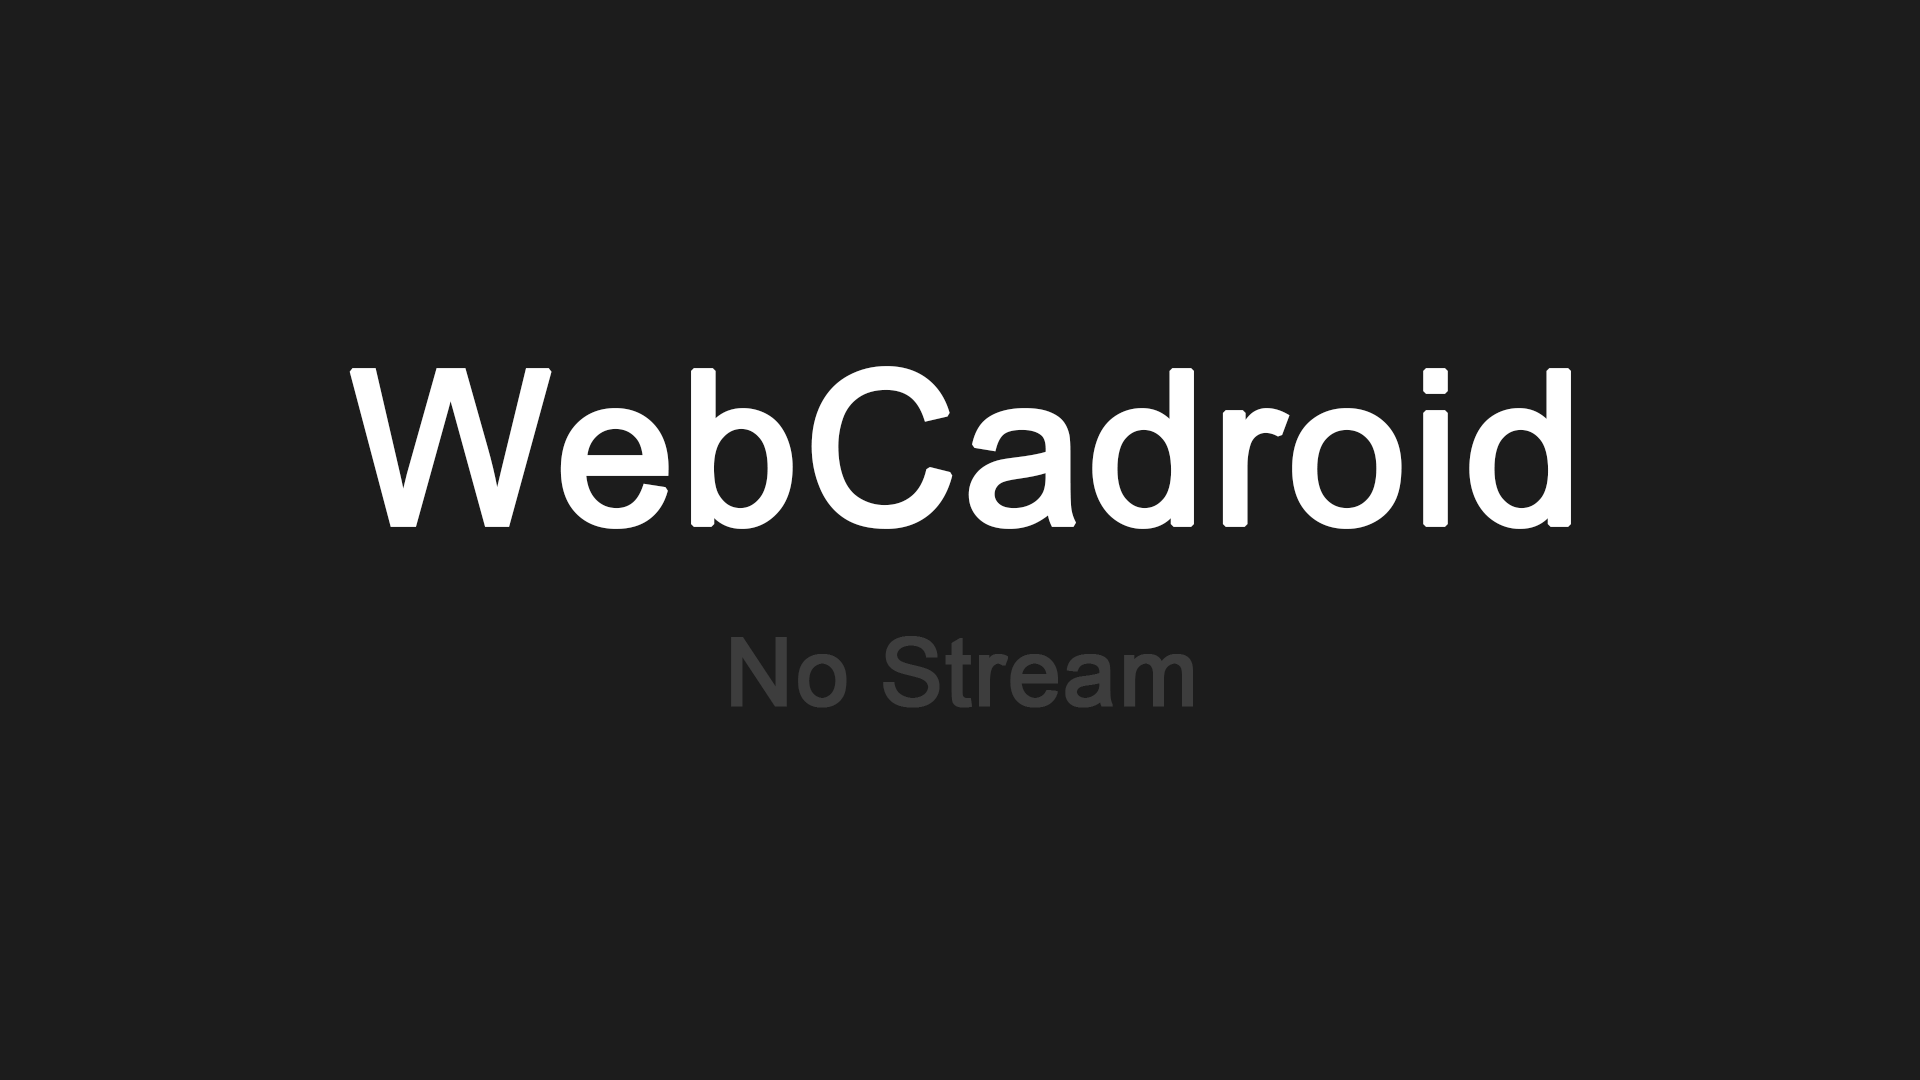
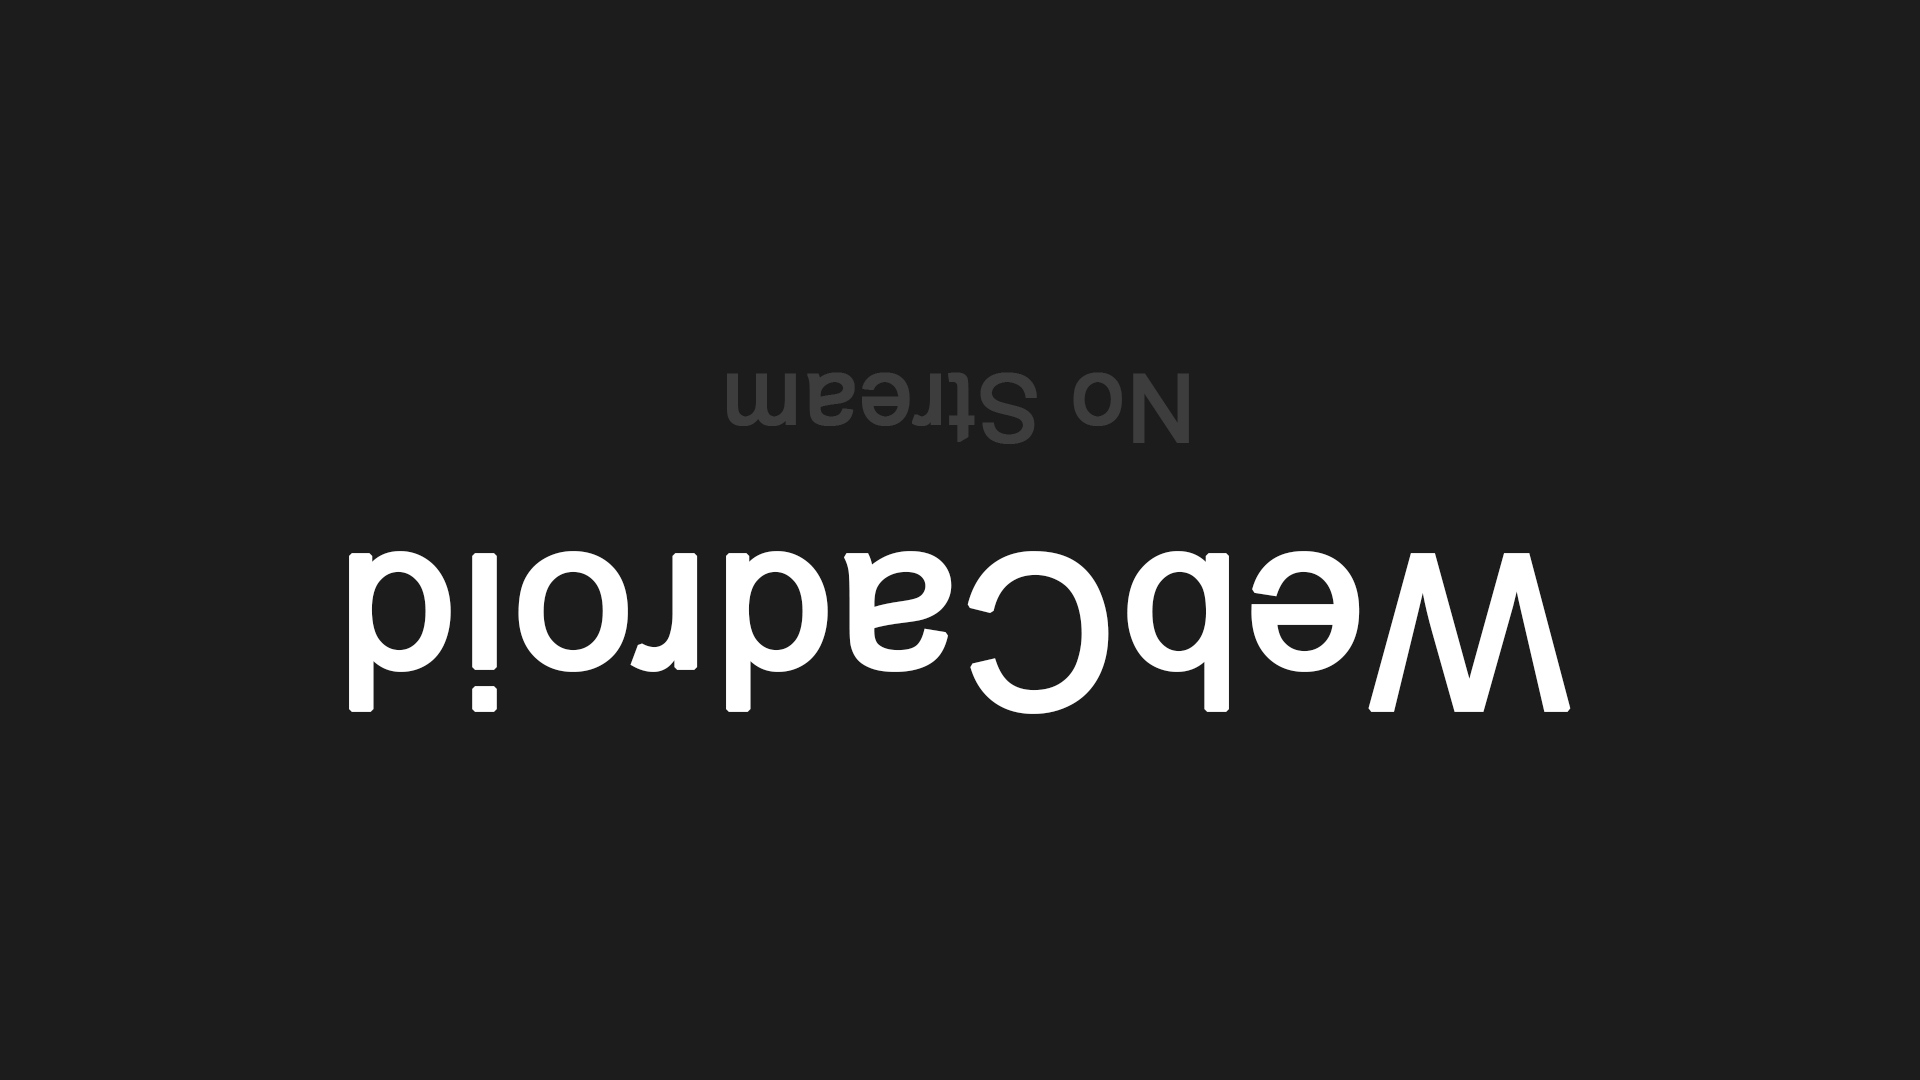
Flipped image `Resources/WebCadroidNoStream.png`; Added `ShowStreamCap()` to show stream cap image, if stream not started/was stopped

Changed region(s): [[0.1562, 0.3361, 0.8438, 0.6722]]

diff --git a/src/WebCadroid/MainWindow.xaml.cs b/src/WebCadroid/MainWindow.xaml.cs
@@ -14,6 +14,7 @@ using WebCadroid.Services;
 using WebCadroid.Types;
 using WebCadroid.Types.Enums;
 using WebCadroid.ViewModels;
+using System.Windows.Resources;
 
 namespace WebCadroid;
 
@@ -42,6 +43,8 @@ public partial class MainWindow : Window {
         _adbService = new AdbService();
         _virtualCamService = new VirtualCamService();
         _virtualCamService.Initialize();
+
+        ShowStreamCap();
 
         _refreshTimer = new DispatcherTimer {
             Interval = TimeSpan.FromSeconds(2)
@@ -192,6 +195,7 @@ public partial class MainWindow : Window {
         _streamCts?.Dispose();
         _streamCts = null;
 
+        ShowStreamCap();
         ShowNoStreamUI();
     }
 
@@ -206,6 +210,18 @@ public partial class MainWindow : Window {
         });
     }
 
+    private void ShowStreamCap() {
+        Uri resourceUri = new("Resources/WebCadroidNoStream.png", UriKind.Relative);
+        StreamResourceInfo imageStream = 
+            System.Windows.Application.GetResourceStream(resourceUri);
+        using MemoryStream imageMs = new();
+
+        imageStream.Stream.CopyTo(imageMs);
+        byte[] imageBytes = imageMs.ToArray();
+        imageMs.SetLength(0);
+
+        _virtualCamService.SendFrame(imageBytes);
+    }
     private async Task StartWebSocketStreamAsync(string deviceId, int port) {
         StopStream();
         _streamCts = new CancellationTokenSource();
